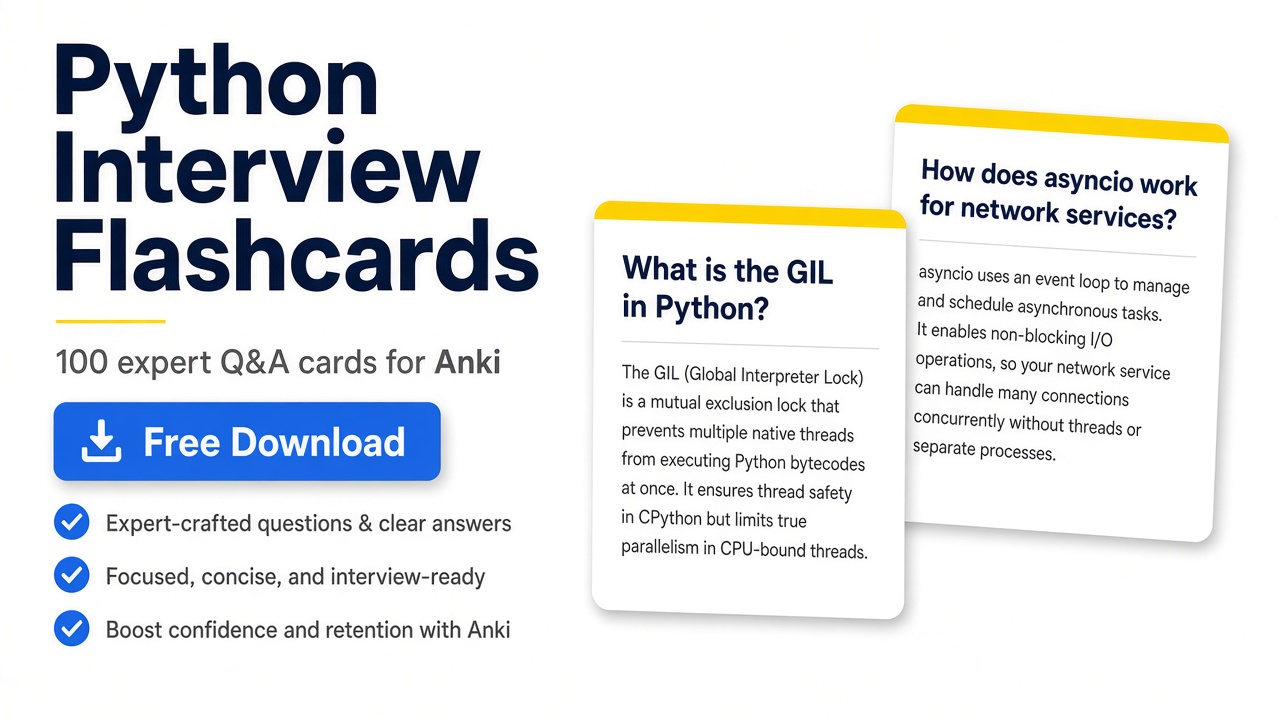
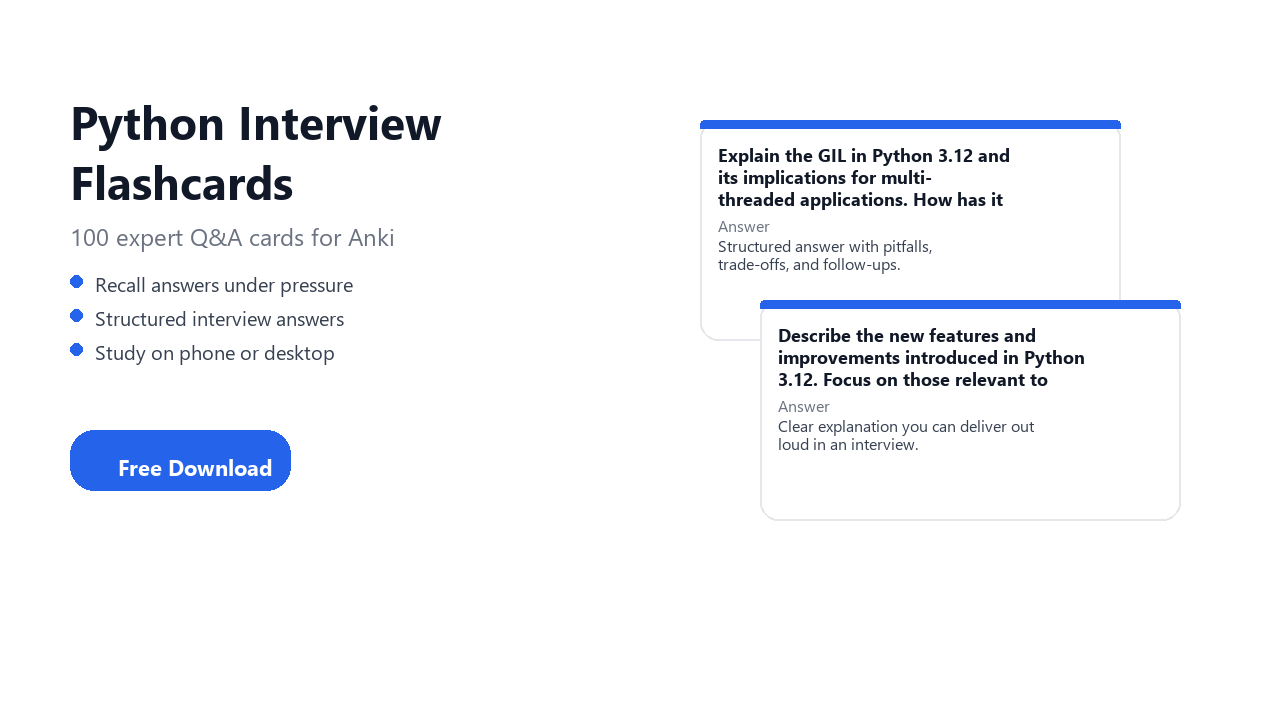
Updating Python Interview Flashcards Free Anki deck repo

Changed region(s): [[0.4688, 0.1222, 0.9688, 0.8861], [0.0312, 0.0611, 0.4375, 0.5194], [0.0312, 0.55, 0.4062, 0.9167]]

diff --git a/README.md b/README.md
@@ -180,7 +180,6 @@ If you use Anki on more than one device, you can use [AnkiWeb sync](https://docs
 | --- | --- |
 | **Cards** | 100 interview questions with detailed answers |
 | **Audience** | software engineer |
-| **Edition** | 2026 |
 | **Topics** | Python 3.12+, typing, asyncio, data structures, OOP, and production Python |
 | **Deck file** | `Python_Interview_2026.apkg` |
 
@@ -250,6 +249,7 @@ Releases are tagged by year (e.g. `v2026.1`). Watch this repo for new editions.
 
 Part of the **Summon The JSON** interview flashcard series:
 
+- **[Full deck catalog](https://github.com/tomaszs/flashcards)** · all free interview flashcard repos by topic
 - [Summon The JSON](https://summonthejson.com) · physical and printable decks
 - GitHub: search [`tomaszs interview-flashcards-free`](https://github.com/search?q=tomaszs+interview-flashcards-free&type=repositories) for related repos
 - Topics: python, software engineering interview, anki interview prep
@@ -287,7 +287,7 @@ Commercial, derivative, organizational, or AI-related licenses start at **USD $5
 
 ## Changelog
 
-### v2026.1 (2026)
+### v2026.1
 
 - Initial public release: 100 cards for Python interviews
-- Edition aligned with 2026 hiring and tooling
+- Structured Q&A aligned with modern hiring topics

diff --git a/deck-source/topics.md b/deck-source/topics.md
@@ -16,5 +16,5 @@ Category index for SEO and navigation. Card text lives in the `.apkg` release on
 ## Also covers
 
 - Interview-style questions and structured answers
-- Production and modern tooling (2026 edition)
+- Production and modern tooling
 - Common pitfalls and follow-up angles
